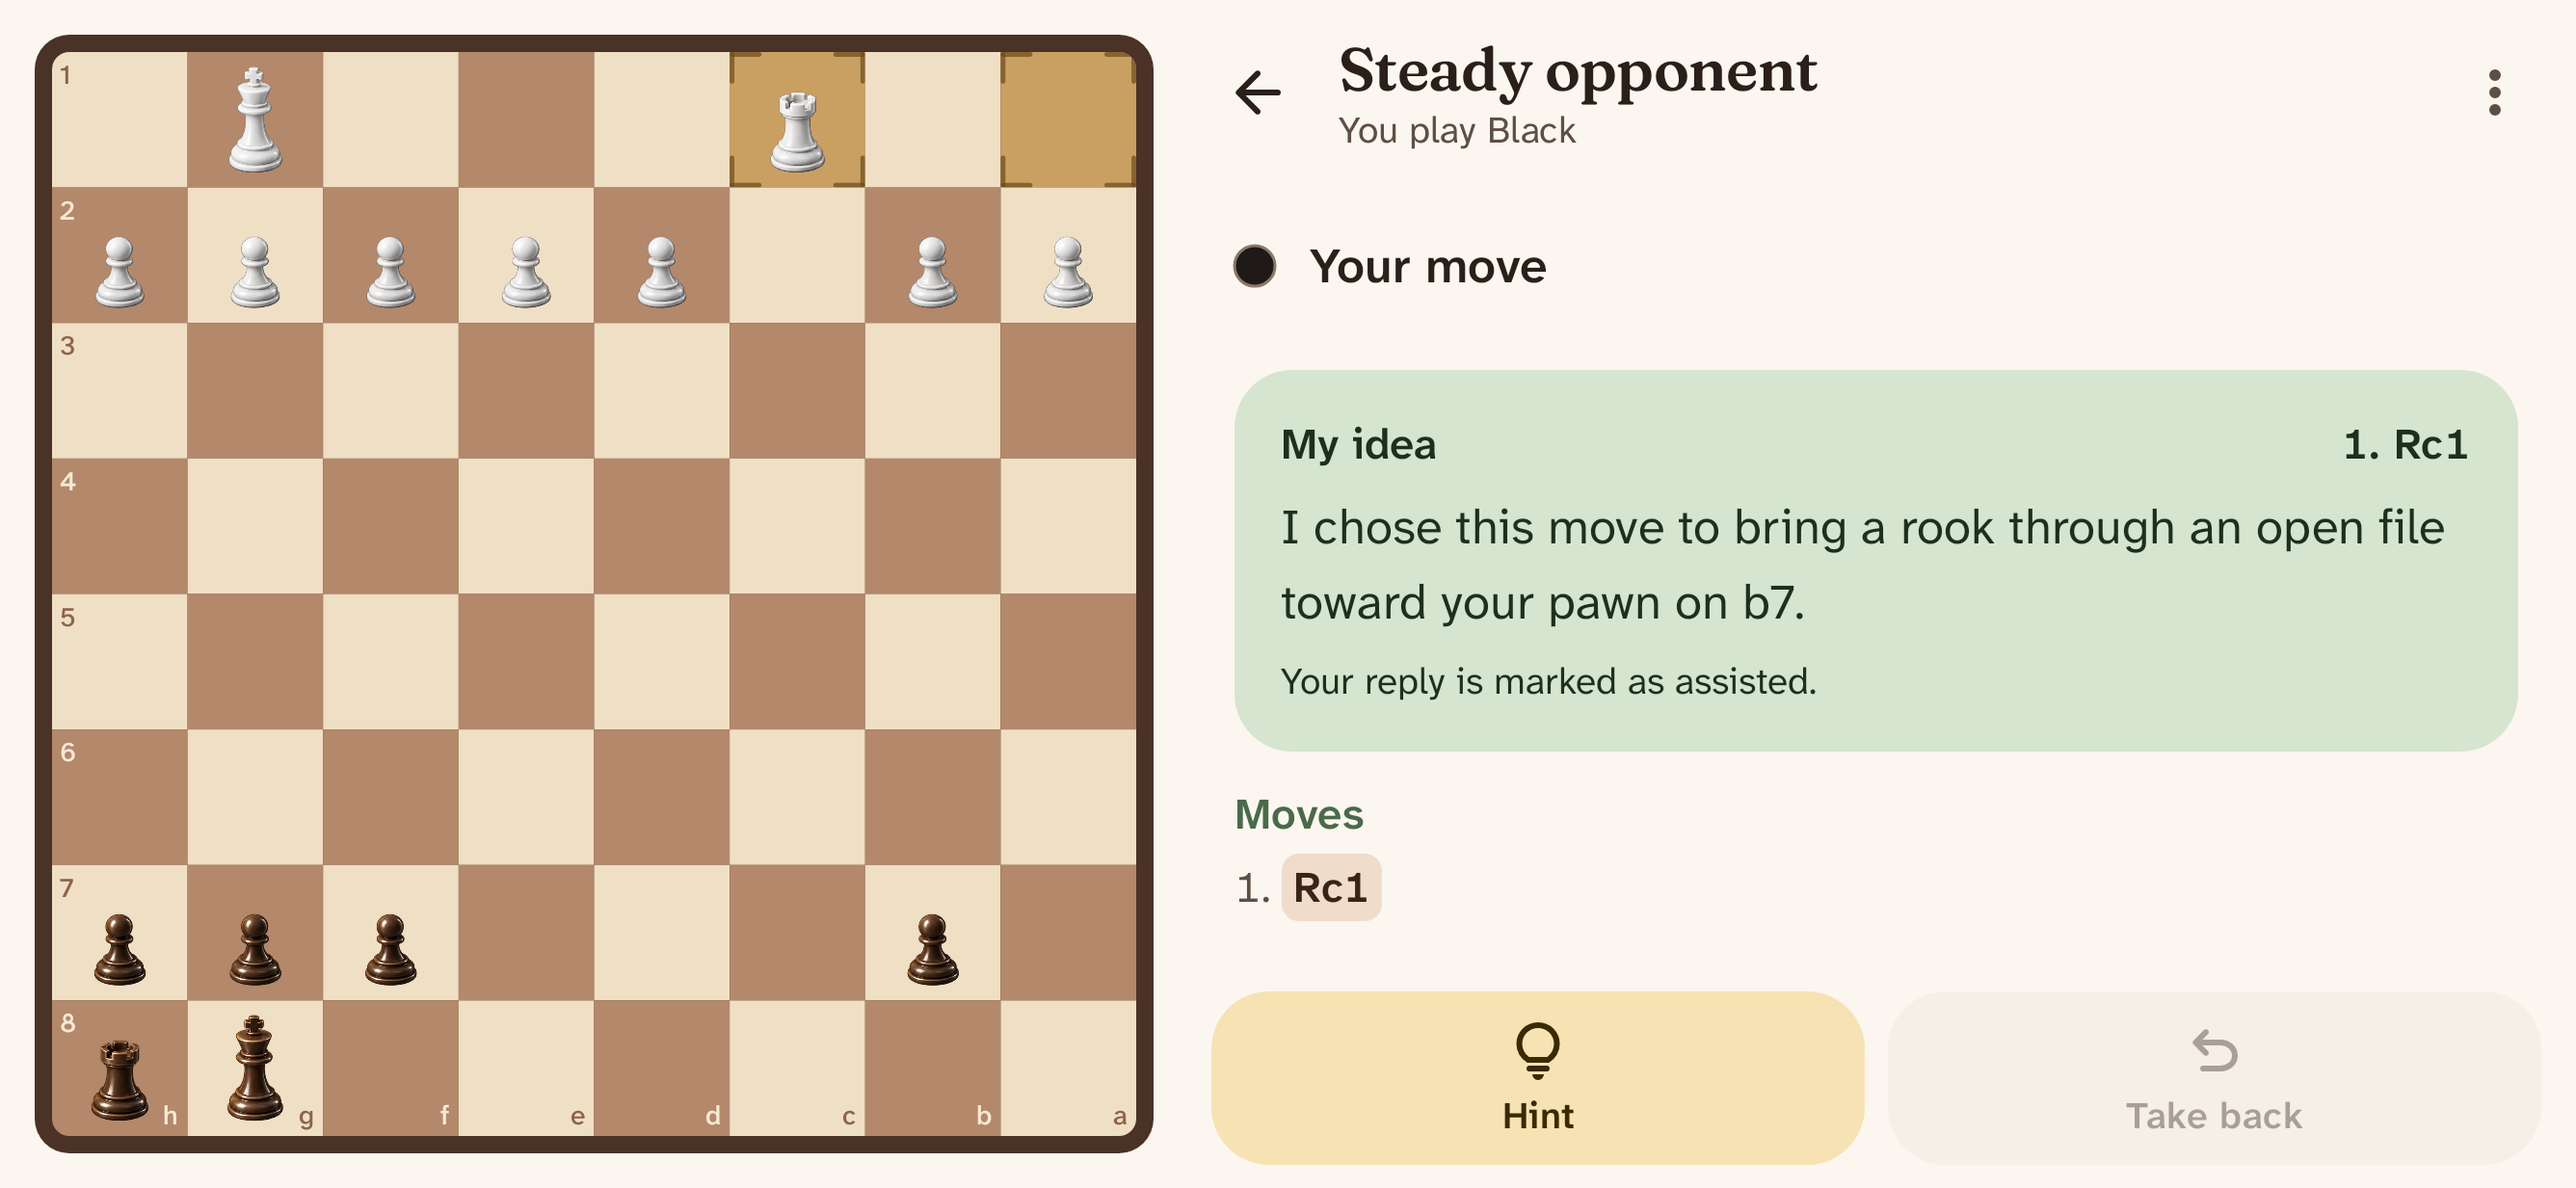
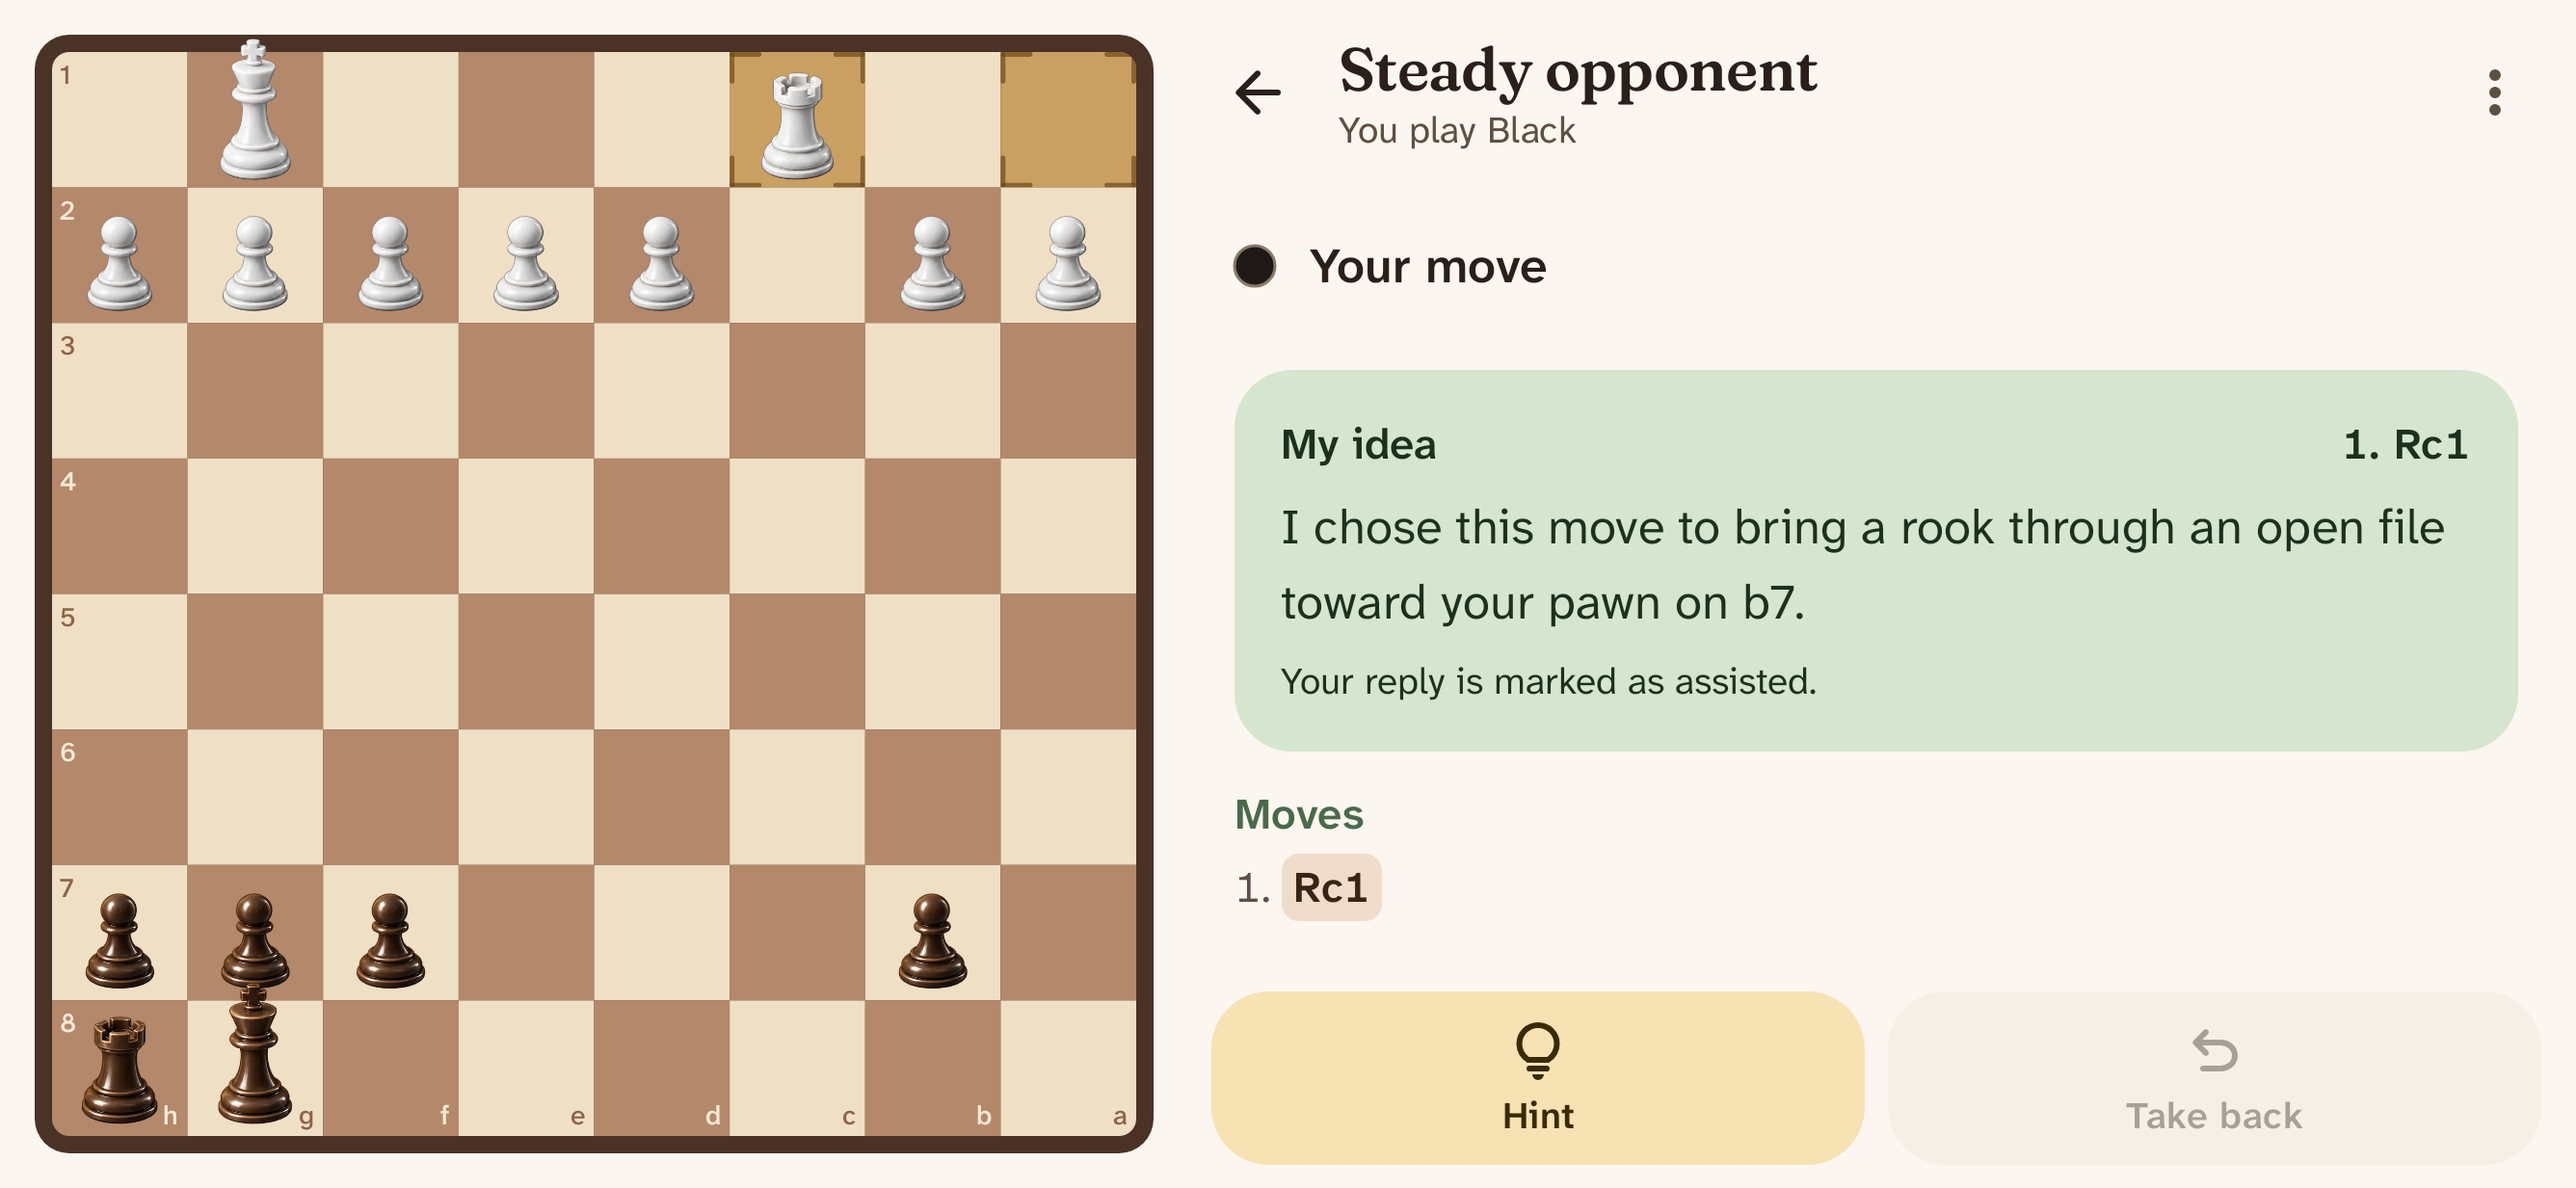
Enlarge ceramic pieces with natural overlap
Give the perspective pieces more visual weight while anchoring their
bases to their squares. Draw settled pieces from back to front, reserve
frame headroom for the top rank, and keep classic artwork at its prior
size. Cover complete silhouettes and overlap in both board orientations.

diff --git a/app/src/main/kotlin/ch/lkmc/chessandcocoa/ui/board/ChessBoard.kt b/app/src/main/kotlin/ch/lkmc/chessandcocoa/ui/board/ChessBoard.kt
@@ -126,10 +126,9 @@ fun ChessBoard(
             .aspectRatio(1f)
             .clip(RoundedCornerShape(if (detail == BoardDetail.FULL) OUTER_RADIUS else THUMBNAIL_RADIUS))
             .background(frameColor)
-            .padding(frameWidth)
-            .clip(RoundedCornerShape(INNER_RADIUS)),
+            .padding(frameWidth),
     ) {
-        Canvas(Modifier.fillMaxSize()) {
+        Canvas(Modifier.fillMaxSize().clip(RoundedCornerShape(INNER_RADIUS))) {
             val cell = size.width / BOARD_SIZE
             forEachSquare(board.orientation) { square, row, column ->
                 val topLeft = Offset(column * cell, row * cell)
@@ -140,17 +139,26 @@ fun ChessBoard(
                     }
                 }
             }
+        }
 
-            // Pieces: resting ones first, then any piece still sliding into place on top.
-            val moving = slides.keys
-            board.pieces.forEach { (square, piece) ->
-                if (square !in moving) drawPiece(pieces.getValue(piece), squareOrigin(square, board.orientation, cell), cell)
+        // Heads may extend into the frame; the rounded outer board still clips the artwork.
+        Canvas(Modifier.fillMaxSize()) {
+            val cell = size.width / BOARD_SIZE
+            val headroom = frameWidth.toPx()
+            val moving = if (progress.value < 1f) slides.keys else emptySet()
+            // Back ranks first so a foreground piece covers the rank behind it.
+            forEachSquare(board.orientation) { square, row, column ->
+                val piece = board.pieces[square]
+                if (piece != null && square !in moving) {
+                    drawPiece(pieces.getValue(piece), Offset(column * cell, row * cell), cell, artwork, headroom)
+                }
             }
             slides.forEach { (to, from) ->
+                if (to !in moving) return@forEach
                 val piece = board.pieces[to] ?: return@forEach
                 val start = squareOrigin(from, board.orientation, cell)
                 val end = squareOrigin(to, board.orientation, cell)
-                drawPiece(pieces.getValue(piece), start + (end - start) * progress.value, cell)
+                drawPiece(pieces.getValue(piece), start + (end - start) * progress.value, cell, artwork, headroom)
             }
 
             forEachSquare(board.orientation) { square, row, column ->
@@ -194,7 +202,7 @@ private fun SquareLayer(
     roles: Map<Square, List<SquareRole>>,
     onTap: ((Square) -> Unit)?,
 ) {
-    BoxWithConstraints(Modifier.fillMaxSize()) {
+    BoxWithConstraints(Modifier.fillMaxSize().clip(RoundedCornerShape(INNER_RADIUS))) {
         val cell = maxWidth / BOARD_SIZE
         Column {
             for (row in 0 until BOARD_SIZE) {
@@ -400,10 +408,22 @@ private fun DrawScope.drawCoordinates(
     }
 }
 
-private fun DrawScope.drawPiece(painter: Painter, origin: Offset, cell: Float) {
-    val inset = cell * PIECE_INSET
-    translate(origin.x + inset, origin.y + inset) {
-        with(painter) { draw(Size(cell - 2 * inset, cell - 2 * inset)) }
+private fun DrawScope.drawPiece(painter: Painter, origin: Offset, cell: Float, artwork: PieceArtwork, headroom: Float) {
+    if (artwork == PieceArtwork.CLASSIC) {
+        val inset = cell * PIECE_INSET
+        translate(origin.x + inset, origin.y + inset) {
+            with(painter) { draw(Size(cell - 2 * inset, cell - 2 * inset)) }
+        }
+        return
+    }
+
+    val side = cell * CERAMIC_PIECE_SCALE
+    val left = origin.x + (cell - side) / 2
+    val anchoredTop = origin.y + cell * CERAMIC_BOARD_BASELINE - side * CERAMIC_SPRITE_BASELINE
+    // Keep the tallest silhouette whole at the top edge, including during a slide.
+    val top = maxOf(anchoredTop, -headroom + 1.dp.toPx() - side * CERAMIC_SPRITE_TOP)
+    translate(left, top) {
+        with(painter) { draw(Size(side, side)) }
     }
 }
 
@@ -502,6 +522,11 @@ private val INNER_RADIUS = 6.dp
 private val HALO_WIDTH = 2.dp
 private const val HALO_ALPHA = 0.9f
 private const val PIECE_INSET = 0.05f
+private const val CERAMIC_PIECE_SCALE = 1.2f
+private const val CERAMIC_BOARD_BASELINE = 0.92f
+// Normalized source baseline and tallest sprite margin from tools/pieces/build_ceramic.py.
+private const val CERAMIC_SPRITE_BASELINE = 300f / 320f
+private const val CERAMIC_SPRITE_TOP = (300f - 282f) / 320f
 private const val COORDINATE_SIZE = 0.2f
 private const val COORDINATE_PAD = 0.06f
 private const val LAST_MOVE_ALPHA = 0.5f

diff --git a/app/src/test/kotlin/ch/lkmc/chessandcocoa/ui/ScreensTest.kt b/app/src/test/kotlin/ch/lkmc/chessandcocoa/ui/ScreensTest.kt
@@ -2,12 +2,15 @@
 package ch.lkmc.chessandcocoa.ui
 
 import android.view.View
+import androidx.compose.foundation.layout.size
 import androidx.compose.runtime.Composable
 import androidx.compose.runtime.CompositionLocalProvider
 import androidx.compose.runtime.mutableStateOf
 import androidx.compose.runtime.getValue
+import androidx.compose.ui.Modifier
 import androidx.compose.ui.platform.LocalDensity
 import androidx.compose.ui.platform.LocalView
+import androidx.compose.ui.platform.testTag
 import androidx.compose.ui.semantics.SemanticsActions
 import androidx.compose.ui.semantics.SemanticsNode
 import androidx.compose.ui.semantics.SemanticsProperties
@@ -23,6 +26,7 @@ import androidx.compose.ui.test.junit4.createComposeRule
 import androidx.compose.ui.test.onAllNodesWithText
 import androidx.compose.ui.test.onFirst
 import androidx.compose.ui.test.onNodeWithContentDescription
+import androidx.compose.ui.test.onNodeWithTag
 import androidx.compose.ui.test.onNodeWithText
 import androidx.compose.ui.test.onRoot
 import androidx.compose.ui.test.performClick
@@ -57,6 +61,7 @@ import ch.lkmc.chessandcocoa.session.GameSummary
 import ch.lkmc.chessandcocoa.session.Phase
 import ch.lkmc.chessandcocoa.session.SideChoice
 import ch.lkmc.chessandcocoa.ui.about.AboutScreen
+import ch.lkmc.chessandcocoa.ui.board.ChessBoard
 import ch.lkmc.chessandcocoa.ui.game.GameNavigation
 import ch.lkmc.chessandcocoa.ui.game.GameScreen
 import ch.lkmc.chessandcocoa.ui.home.HomeActions
@@ -128,6 +133,22 @@ class ScreensTest {
         compose.waitForIdle()
         compose.onNodeWithText("Start game").assertExists()
         captureScreenRoboImage(shot("new-game"))
+    }
+
+    @Test
+    fun ceramicPiecesFromWhiteSide() {
+        val position = Position.fromFen(CERAMIC_OVERLAP_FEN)
+        val board = BoardSnapshot.of(position, Side.WHITE, lastMove = null, playable = false)
+        show { ChessBoard(board, Modifier.size(328.dp).testTag("ceramic-board")) }
+        compose.onNodeWithTag("ceramic-board").captureRoboImage(shot("ceramic-board-white"))
+    }
+
+    @Test
+    fun ceramicPiecesFromBlackSide() {
+        val position = Position.fromFen(CERAMIC_OVERLAP_FEN)
+        val board = BoardSnapshot.of(position, Side.BLACK, lastMove = null, playable = false)
+        show { ChessBoard(board, Modifier.size(328.dp).testTag("ceramic-board")) }
+        compose.onNodeWithTag("ceramic-board").captureRoboImage(shot("ceramic-board-black"))
     }
 
     @Test
@@ -726,6 +747,8 @@ class ScreensTest {
         const val LARGEST_FONT = 2f
         const val SCROLL_TO_END = 100_000f
         val NAVIGATION_BAR = 48.dp
+        // Queens on adjacent ranks expose overlap in front of the back-rank queens and kings.
+        const val CERAMIC_OVERLAP_FEN = "rnbqkbnr/pppqqppp/8/8/8/8/PPPQQPPP/RNBQKBNR w - - 0 1"
         const val SCHOLAR_FEN = "r1bqkbnr/pppp1ppp/2n5/4p2Q/2B1P3/8/PPPP1PPP/RNB1K1NR b KQkq - 3 3"
         const val SAVED_FEN = "r1bqk2r/pppp1ppp/2n2n2/2b1p3/2B1P3/3P1N2/PPP2PPP/RNBQK2R w KQkq - 1 5"
         const val PROMOTION_FEN = "8/4P3/8/8/8/8/k7/4K3 w - - 0 1"

diff --git a/docs/DESIGN.md b/docs/DESIGN.md
@@ -84,6 +84,9 @@ Claims ([`Claims.kt`](../coach/src/main/kotlin/ch/lkmc/chessandcocoa/coach/evide
 The standard board and promotion chooser use porcelain and espresso ceramic
 pieces in an elevated three-quarter view. Cool white porcelain, pearl-grey
 shadows and clear edges distinguish the light pieces from the warm squares.
+Their bases sit near the bottom of each square, with taller pieces extending
+slightly above it. Pieces draw from back to front in either orientation;
+the top rank uses the frame's headroom to keep silhouettes whole.
 High-contrast boards and their promotion chooser, miniature boards and small
 side selectors keep the original vector silhouettes. The cocoa-and-knight mark appears
 on the home and about screens and the launcher. Source artwork, generation

diff --git a/media-sources/ARTWORK.md b/media-sources/ARTWORK.md
@@ -48,6 +48,13 @@ selectors and the monochrome launcher icon retain the
 [cburnett vectors](pieces/README.md) for readability.
 The original vector generator and its check remain in use.
 
+On full boards, the ceramic canvas draws at 1.2 times the square width,
+with its source baseline anchored near the square's bottom. Tall pieces can
+overlap the square above; back-to-front rendering and top-frame headroom
+preserve depth and complete silhouettes. The renderer's normalized source
+baseline and top margin match the extraction script's 320 px canvas,
+300 px baseline and 282 px king height.
+
 ## Chess set construction prompt
 
 This original generation prompt records construction of `atlas-front.png`,
